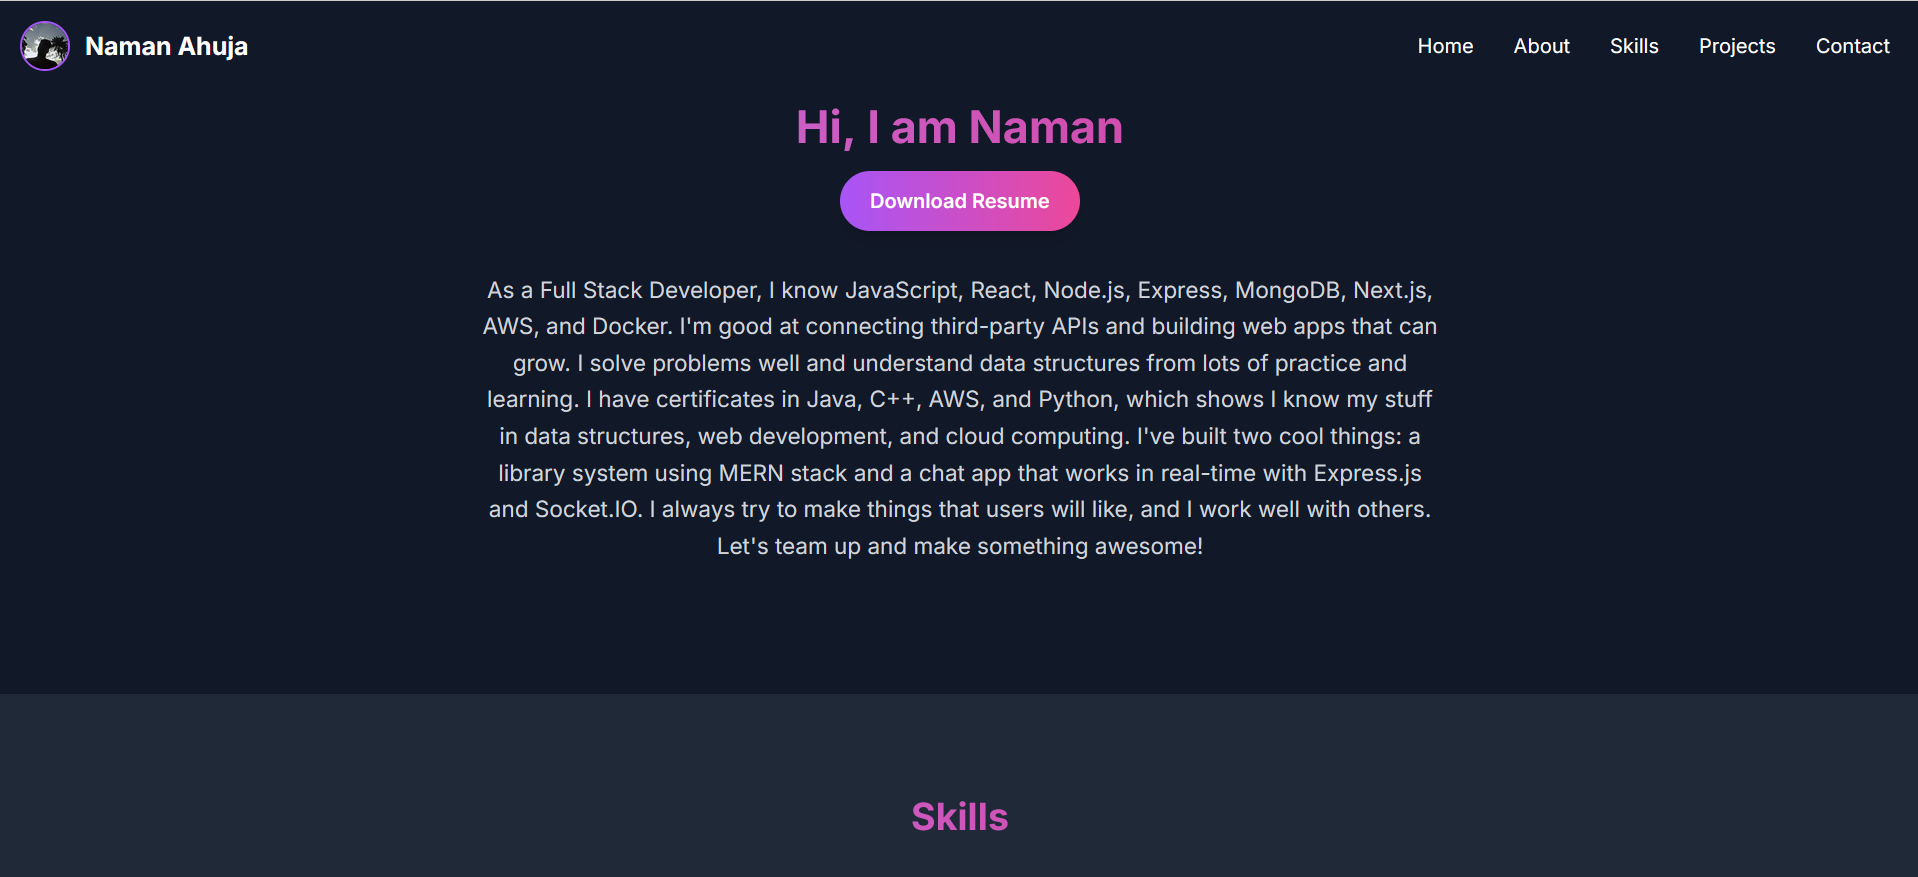
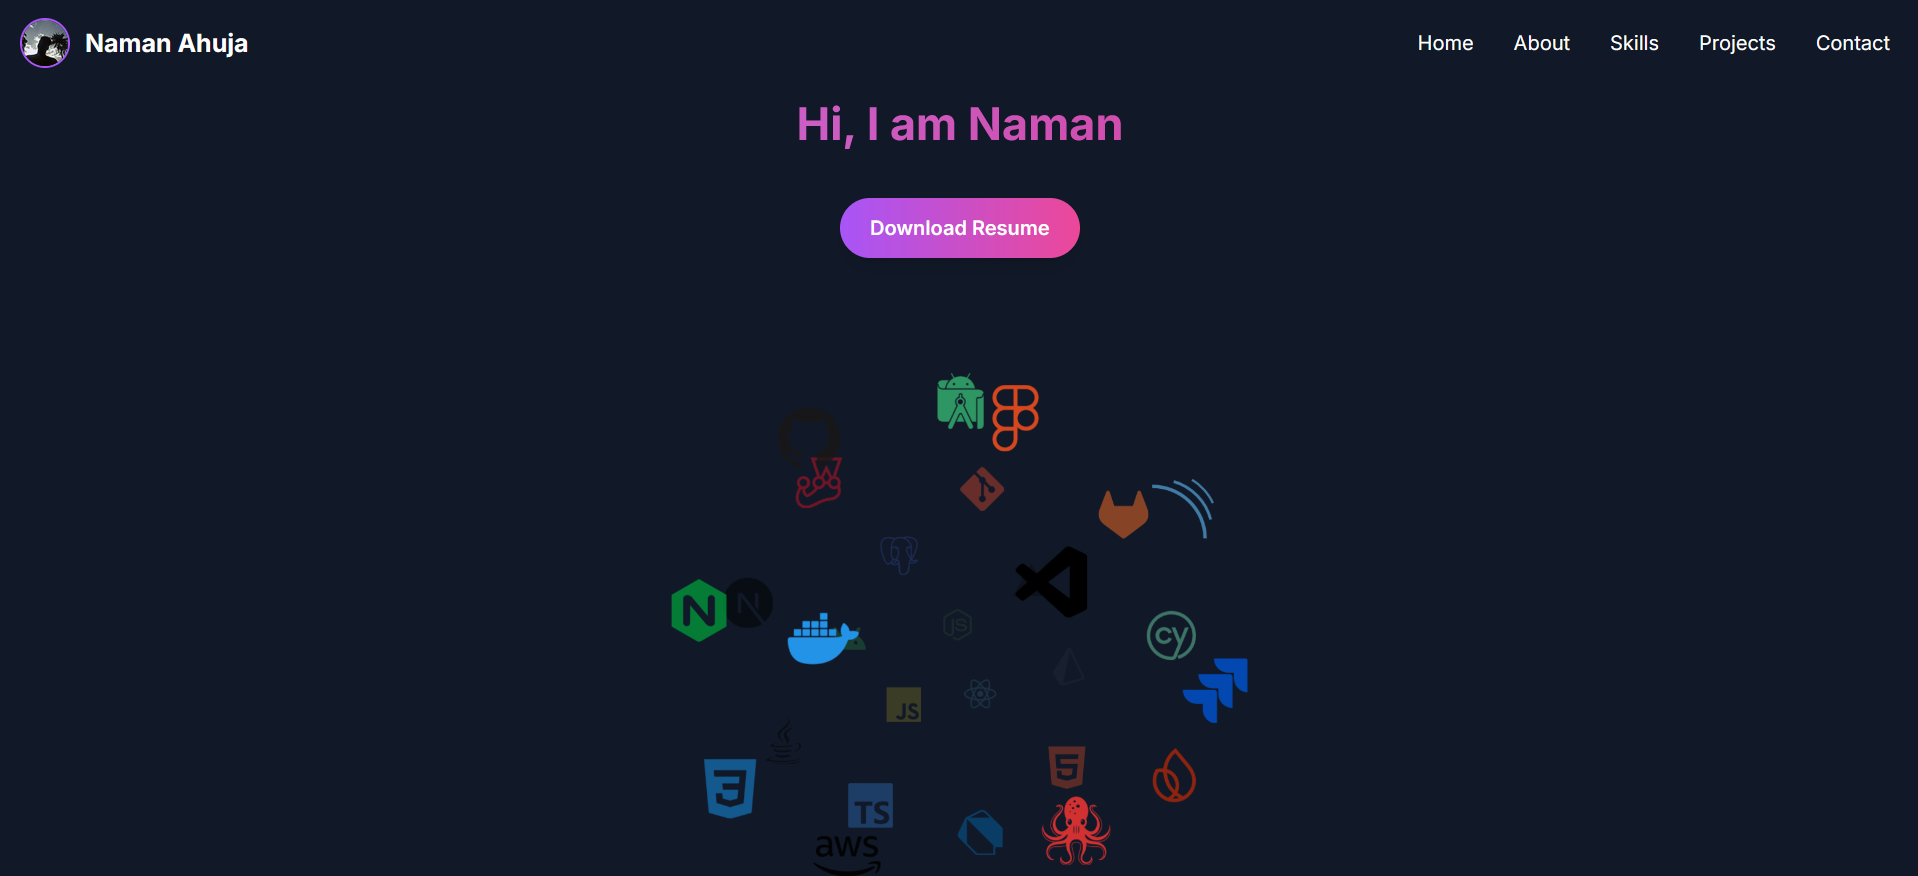
ready

diff --git a/components/About.js b/components/About.js
@@ -1,37 +1,129 @@
-"use client"
-import React, { useState, useEffect } from 'react';
+"use client";
+import React, { useState, useEffect, useMemo } from 'react';
+import { useTheme } from "next-themes";
+import {
+  Cloud,
+  fetchSimpleIcons,
+  renderSimpleIcon,
+} from "react-icon-cloud";
 
-const AnimatedWord = ({ word, isVisible }) => {
+const cloudProps = {
+  containerProps: {
+    style: {
+      display: "flex",
+      justifyContent: "center",
+      alignItems: "center",
+      width: "100%",
+      paddingTop: 40,
+      paddingBottom: 40, // Added padding at the bottom for better spacing
+      backgroundColor: "transparent", // Ensured no background color for the container
+    }
+  },
+  options: {
+    reverse: true,
+    depth: 1,
+    wheelZoom: false,
+    imageScale: 2,
+    activeCursor: "default",
+    tooltip: "native",
+    initial: [0.1, -0.1],
+    clickToFront: 500,
+    tooltipDelay: 0,
+    outlineColour: "#0000",
+    maxSpeed: 0.03, // Decreased speed for a smoother rotation
+    minSpeed: 0.01, // Decreased speed for a smoother rotation
+  }
+};
+
+const renderCustomIcon = (icon, theme) => {
+  const bgHex = theme === "light" ? "#f3f2ef" : "#080510";
+  const fallbackHex = theme === "light" ? "#6e6e73" : "#ffffff";
+  const minContrastRatio = theme === "dark" ? 2 : 1.2;
+  return renderSimpleIcon({
+    icon,
+    bgHex,
+    fallbackHex,
+    minContrastRatio,
+    size: 42,
+    aProps: {
+      href: undefined,
+      target: undefined,
+      rel: undefined,
+      onClick: (e) => e.preventDefault(),
+    }
+  });
+};
+
+const IconCloud = ({ iconSlugs }) => {
+  const [data, setData] = useState(null);
+  const { theme } = useTheme();
+
+  useEffect(() => {
+    fetchSimpleIcons({ slugs: iconSlugs }).then(setData);
+  }, [iconSlugs]);
+
+  const renderedIcons = useMemo(() => {
+    if (!data) return null;
+    return Object.values(data.simpleIcons).map((icon) =>
+      renderCustomIcon(icon, theme || "light")
+    );
+  }, [data, theme]);
+
   return (
-    <span className={`inline-block transition-all duration-1000 ${isVisible ? 'opacity-100 translate-y-0' : 'opacity-0 translate-y-4'}`}>
-      {word}
-    </span>
+    <Cloud {...cloudProps}>
+      {renderedIcons}
+    </Cloud>
   );
 };
 
+const slugs = [
+  "typescript",
+  "javascript",
+  "dart",
+  "java",
+  "react",
+  "flutter",
+  "android",
+  "html5",
+  "css3",
+  "nodedotjs",
+  "express",
+  "nextdotjs",
+  "prisma",
+  "amazonaws",
+  "postgresql",
+  "firebase",
+  "nginx",
+  "vercel",
+  "testinglibrary",
+  "jest",
+  "cypress",
+  "docker",
+  "git",
+  "jira",
+  "github",
+  "gitlab",
+  "visualstudiocode",
+  "androidstudio",
+  "sonarqube",
+  "figma",
+];
+
+function IconCloudDemo() {
+  return (
+    <div className="flex h-full w-full max-w-[32rem] items-center justify-center overflow-hidden rounded-lg">
+      <IconCloud iconSlugs={slugs} />
+    </div>
+  );
+}
+
 const About = () => {
-  const titleWords = ['Hi,', 'I', 'am', 'Naman'];
-  const [visibleIndex, setVisibleIndex] = useState(-1);
-
-  useEffect(() => {
-    const intervalId = setInterval(() => {
-      setVisibleIndex((prevIndex) => (prevIndex + 1) % (titleWords.length + 1));
-    }, 400);
-
-    return () => clearInterval(intervalId);
-  }, [titleWords.length]);
-
   return (
     <section className="py-20 bg-gray-900" id="about">
       <div className="container mx-auto px-4">
         <div className="text-center">
           <h2 className="text-3xl font-bold mb-4 md:text-4xl text-transparent bg-clip-text bg-gradient-to-r from-purple-400 to-pink-600 min-h-[6rem] md:min-h-[4rem] whitespace-nowrap">
-            {titleWords.map((word, index) => (
-              <React.Fragment key={index}>
-                <AnimatedWord word={word} isVisible={index <= visibleIndex} />
-                {index < titleWords.length - 1 && ' '}
-              </React.Fragment>
-            ))}
+            Hi, I am Naman
           </h2>
           <a
             href="/2110990908_naman.pdf"
@@ -40,9 +132,9 @@ const About = () => {
           >
             Download Resume
           </a>
-          <p className="text-lg text-gray-300 mx-auto max-w-full md:max-w-3xl leading-relaxed mb-6">
-            As a Full Stack Developer, I know JavaScript, React, Node.js, Express, MongoDB, Next.js, AWS, and Docker. I&apos;m good at connecting third-party APIs and building web apps that can grow. I solve problems well and understand data structures from lots of practice and learning. I have certificates in Java, C++, AWS, and Python, which shows I know my stuff in data structures, web development, and cloud computing. I&apos;ve built two cool things: a library system using MERN stack and a chat app that works in real-time with Express.js and Socket.IO. I always try to make things that users will like, and I work well with others. Let&apos;s team up and make something awesome!
-          </p>
+          <div className="flex justify-center mb-8">
+            <IconCloudDemo />
+          </div>
         </div>
       </div>
     </section>

diff --git a/components/Projects.js b/components/Projects.js
@@ -20,7 +20,7 @@ const Projects = () => {
     {
       title: "Portfolio Website",
       image: "/images/portf.png",
-      link: "https://github.com/Namanahuja82/portfolio-next"
+      link: "https://github.com/Namanahuja82/naman-portfolio"
     }
   ];
 
